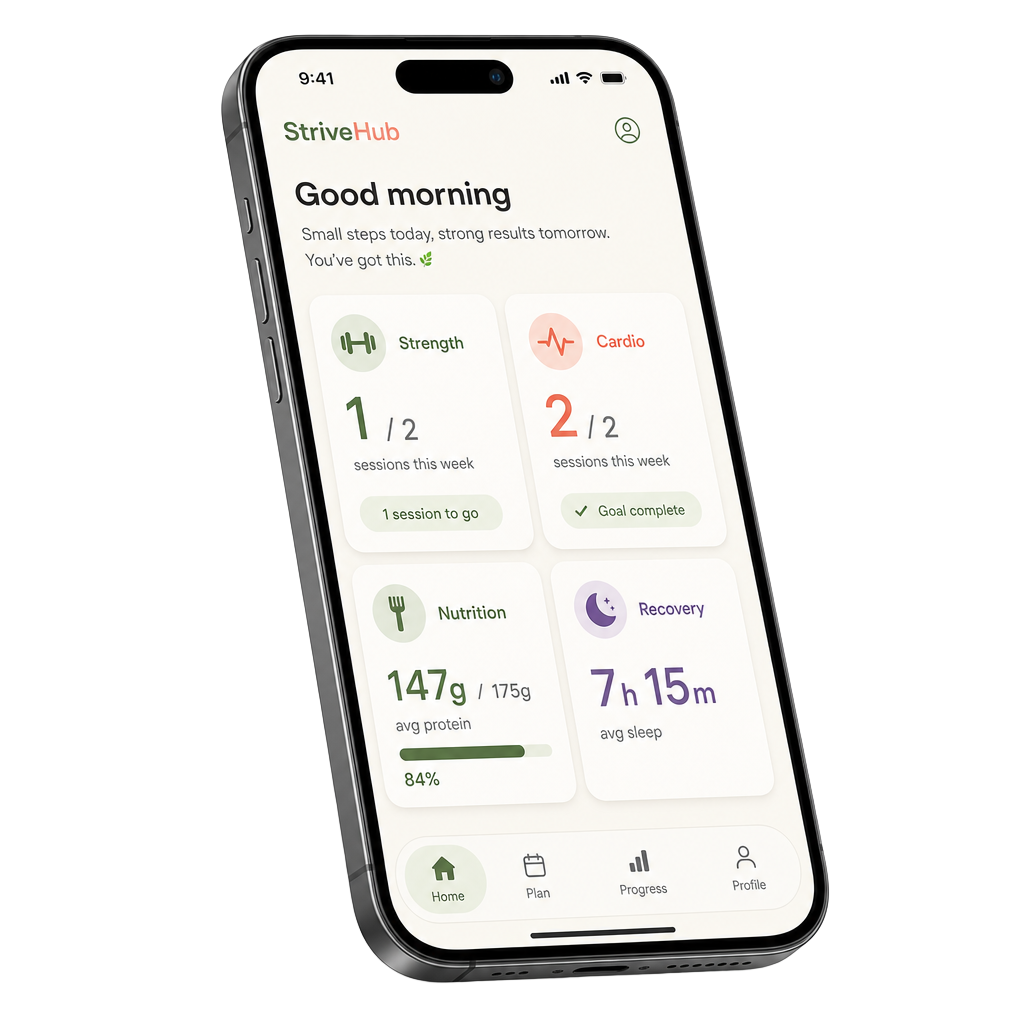
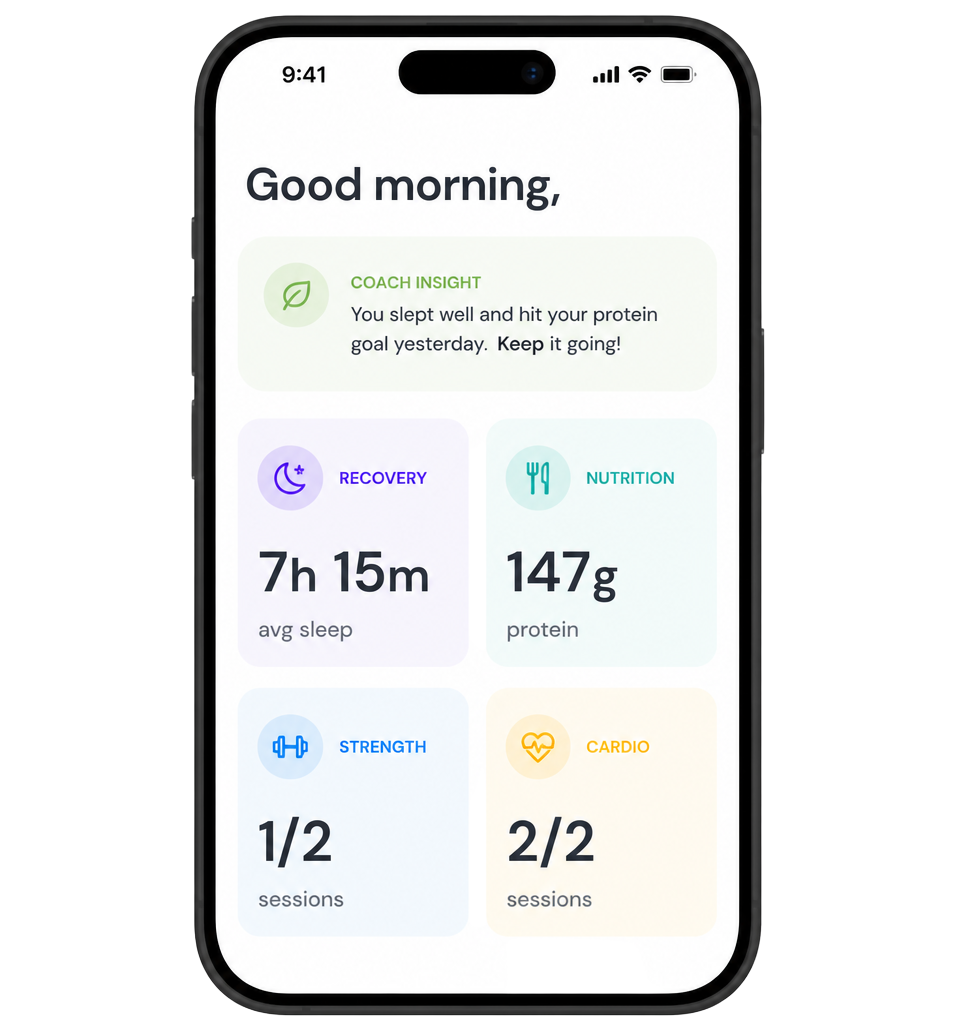
Sync latest website changes

Changed region(s): [[0.1875, 0.0, 0.8125, 1.0]]

diff --git a/src/components/landing/FeaturesSection.tsx b/src/components/landing/FeaturesSection.tsx
@@ -10,9 +10,9 @@ const fade = (i: number) => ({
 
 const features = [
   { icon: BedDouble, title: "Recovery", desc: "Know whether recovery deserves attention today based on sleep, HRV, and readiness trends.", color: "#7B61FF", bg: "rgba(123,97,255,0.08)" },
-  { icon: Dumbbell, title: "Strength", desc: "See whether your training is building momentum or stalling out.", color: "#4CAF84", bg: "rgba(76,175,132,0.08)" },
-  { icon: Activity, title: "Cardio", desc: "See where cardio fits into your weekly plan and what to do next.", color: "#4A90E2", bg: "rgba(74,144,226,0.08)" },
-  { icon: UtensilsCrossed, title: "Nutrition", desc: "Get simple guidance that helps your training and recovery work together.", color: "#F5A623", bg: "rgba(245,166,35,0.08)" },
+  { icon: UtensilsCrossed, title: "Nutrition", desc: "Get simple guidance that helps your training and recovery work together.", color: "#2FC7B5", bg: "rgba(47,199,181,0.08)" },
+  { icon: Dumbbell, title: "Strength", desc: "See whether your training is building momentum or stalling out.", color: "#1291F3", bg: "rgba(18,145,243,0.08)" },
+  { icon: Activity, title: "Cardio", desc: "See where cardio fits into your weekly plan and what to do next.", color: "#FFB716", bg: "rgba(255,183,22,0.10)" },
 ];
 
 const FeaturesSection = () => (

diff --git a/src/components/landing/ProblemSection.tsx b/src/components/landing/ProblemSection.tsx
@@ -25,10 +25,6 @@ const ProblemSection = () => (
         <p className="text-lg font-semibold" style={{ color: "#4CAF84" }}>
           Your decisions shouldn't be.
         </p>
-        <p className="text-sm mt-3 max-w-lg mx-auto" style={{ color: "#6B7378" }}>
-          Garmin tracks one thing. Nutrition apps track another. Workout apps track another.
-          <br />StriveHub helps you see the big picture.
-        </p>
       </motion.div>
 
       <motion.h2 {...fade(0)} className="text-3xl md:text-4xl font-bold text-center tracking-tight mb-4" style={{ color: "#2F3437" }}>
@@ -51,9 +47,6 @@ const ProblemSection = () => (
           );
         })}
       </div>
-      <motion.p {...fade(4)} className="text-center text-sm mt-10 max-w-lg mx-auto" style={{ color: "#6B7378" }}>
-        StriveHub was built to turn fragmented fitness signals into one clear daily decision.
-      </motion.p>
     </div>
   </section>
 );

diff --git a/src/components/landing/PhilosophySection.tsx b/src/components/landing/PhilosophySection.tsx
@@ -16,14 +16,6 @@ const PhilosophySection = () => (
       <motion.p {...fade(1)} className="text-base leading-relaxed mb-6" style={{ color: "#6B7378" }}>
         StriveHub is built for people who already care about their health and performance, but are tired of piecing together recovery, training, cardio, and nutrition across multiple apps and devices.
       </motion.p>
-      <motion.p {...fade(2)} className="text-sm leading-relaxed mb-4" style={{ color: "#6B7378" }}>
-        What good is running more if you're not recovering well?
-        <br />
-        What good is strength training if your nutrition is working against you?
-      </motion.p>
-      <motion.p {...fade(3)} className="text-sm font-medium italic" style={{ color: "#4CAF84" }}>
-        It's not about tracking more. It's about seeing the whole picture and knowing what matters today.
-      </motion.p>
     </div>
   </section>
 );

diff --git a/src/components/landing/HeroSection.tsx b/src/components/landing/HeroSection.tsx
@@ -40,7 +40,7 @@ const HeroSection = ({ onCTA }: { onCTA: () => void }) => (
         </motion.p>
       </div>
       <motion.div {...fade(2)} className="flex justify-center">
-        <img src={heroMockup} alt="StriveHub app showing today's strength, cardio, protein, and sleep goal progress" width={480} height={480} fetchPriority="high" decoding="async" className="w-full max-w-[420px] drop-shadow-2xl" />
+        <img src={heroMockup} alt="StriveHub app showing a daily coach insight above the recovery, nutrition, strength, and cardio goal tiles" width={480} height={512} fetchPriority="high" decoding="async" className="w-full max-w-[420px]" style={{ background: "transparent" }} />
       </motion.div>
     </div>
   </section>

diff --git a/src/components/landing/SolutionSection.tsx b/src/components/landing/SolutionSection.tsx
@@ -15,10 +15,10 @@ const cards = [
 ];
 
 const goals = [
-  { label: "Strength", value: "1 / 2", sub: "sessions", color: "#4CAF84" },
-  { label: "Cardio", value: "2 / 2", sub: "sessions", color: "#4A90E2" },
-  { label: "Protein", value: "147g", sub: "of 140g", color: "#F5A623" },
-  { label: "Sleep", value: "7h 15m", sub: "last night", color: "#7B61FF" },
+  { label: "Recovery",  value: "7h 15m", sub: "last night",  color: "#594CF7" },
+  { label: "Nutrition", value: "147g",   sub: "of 140g",     color: "#2FC7B5" },
+  { label: "Strength",  value: "1 / 2",  sub: "sessions",    color: "#1291F3" },
+  { label: "Cardio",    value: "2 / 2",  sub: "sessions",    color: "#FFB716" },
 ];
 
 const SolutionSection = () => (

diff --git a/src/components/landing/LandingNav.tsx b/src/components/landing/LandingNav.tsx
@@ -1,4 +1,6 @@
 import { motion } from "framer-motion";
+import logo from "@/assets/strivehub-logo.png";
+
 
 const LandingNav = ({ onCTA }: { onCTA: () => void }) => {
 
@@ -11,9 +13,8 @@ const LandingNav = ({ onCTA }: { onCTA: () => void }) => {
       style={{ background: "rgba(247,248,250,0.85)", borderColor: "#ECEEF0" }}
     >
       <div className="max-w-6xl mx-auto px-5 h-16 flex items-center justify-between">
-        <span className="text-lg font-bold tracking-tight" style={{ color: "#2F3437" }}>
-          StriveHub
-        </span>
+        <img src={logo} alt="StriveHub" className="h-8 w-auto" />
+
         <div className="flex items-center gap-3">
          <a
   href="https://app.strivehub.ai/auth"

diff --git a/src/components/landing/LandingFooter.tsx b/src/components/landing/LandingFooter.tsx
@@ -1,7 +1,9 @@
+import logo from "@/assets/strivehub-logo.png";
+
 const LandingFooter = () => (
   <footer className="py-10 border-t" style={{ background: "#F7F8FA", borderColor: "#ECEEF0" }}>
     <div className="max-w-6xl mx-auto px-5 flex flex-col sm:flex-row items-center justify-between gap-4">
-      <span className="text-sm font-bold" style={{ color: "#2F3437" }}>StriveHub</span>
+      <img src={logo} alt="StriveHub" className="h-8 w-auto" />
       <p className="text-xs" style={{ color: "#9CA3A8" }}>© {new Date().getFullYear()} StriveHub. All rights reserved.</p>
     </div>
   </footer>
